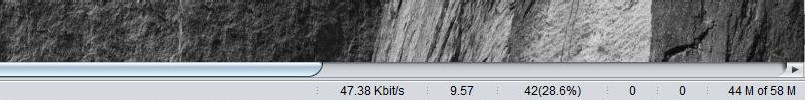
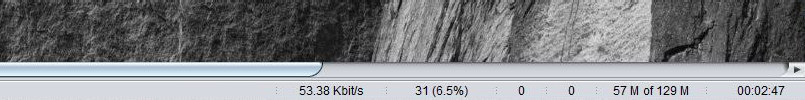
Updated documentation

diff --git a/docs/fr_support.html b/docs/fr_support.html
@@ -73,6 +73,8 @@
             <li>Number of Merged Capture: le nombre de captures d'écran fusionnées avant d'être transmis. Ceci est dû à
                 un taux de capture trop élevé pour le courant méthode de compression. Pour minimiser ce nombre, vous
                 devez ralentir la capture taux et / ou changer la méthode de compression en utilisant un plus rapide.
+            <li>Utilisation de la mémoire
+            <li>Durée de la session d'assistance active ou de la dernière
         </ol>
     </div>
     <div id="footer"></div>

diff --git a/docs/support.html b/docs/support.html
@@ -68,6 +68,8 @@
             <li>Number of Merged Capture: the number of screen captures that have been merged before being transmitted.
                 This is due to a capture rate too high for the current compression method. To minimize that number you
                 have to slow down the capture rate and/or change the compression method using a faster one.
+            <li>Memory usage
+            <li>Duration of the active or the last support session
         </ol>
     </div>
     <div id="footer"></div>

diff --git a/docs/de_support.html b/docs/de_support.html
@@ -73,6 +73,8 @@
                 kombiniert worden sind. Dies ist ein Anzeichen für ein zu kurzes Erfassungsintervall für die gewählte
                 Komprimierungsmethode. Am einfachsten das Erfassungsintervall erhöhen und/oder eine schnellere
                 Kompressionsmethode wählen.
+            <li>Speicherbelegun
+            <li>Dauer der aktuellen oder der letzten Sitzung
         </ol>
     </div>
     <div id="footer"></div>
